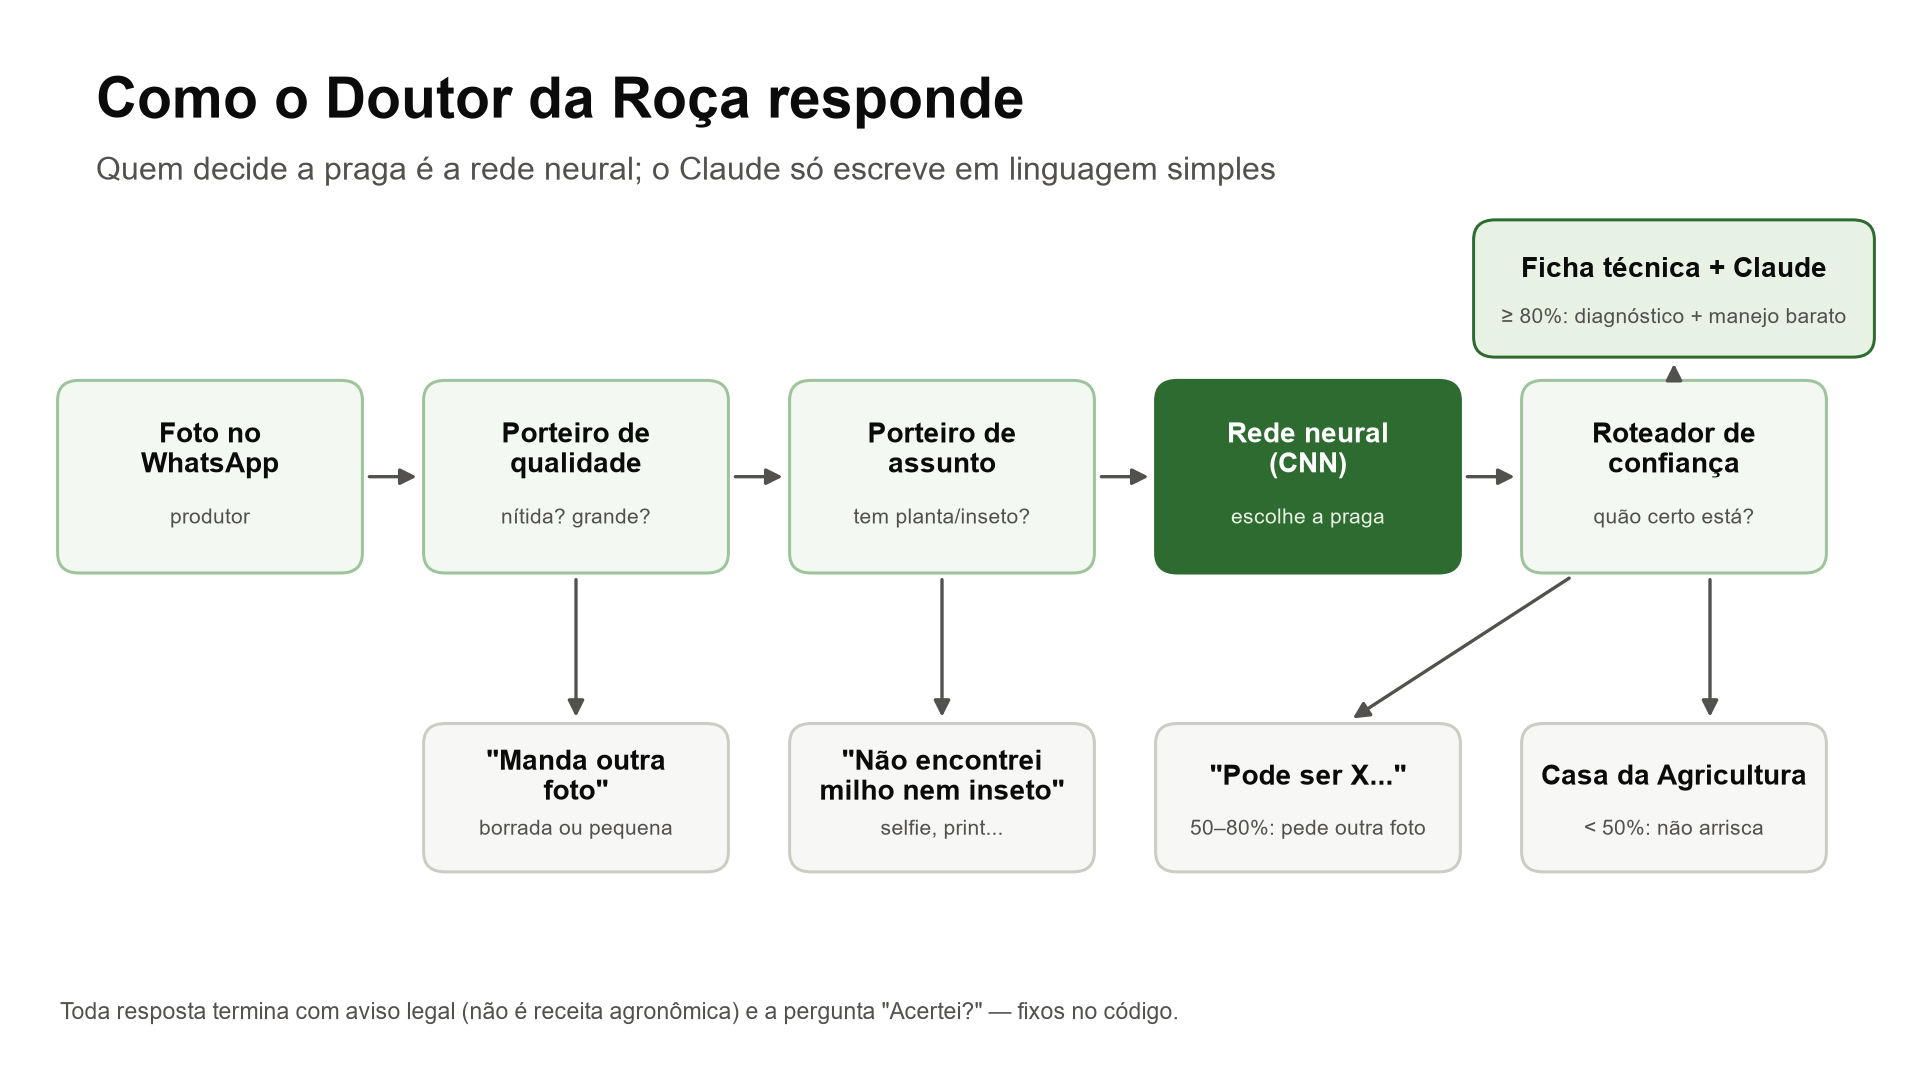
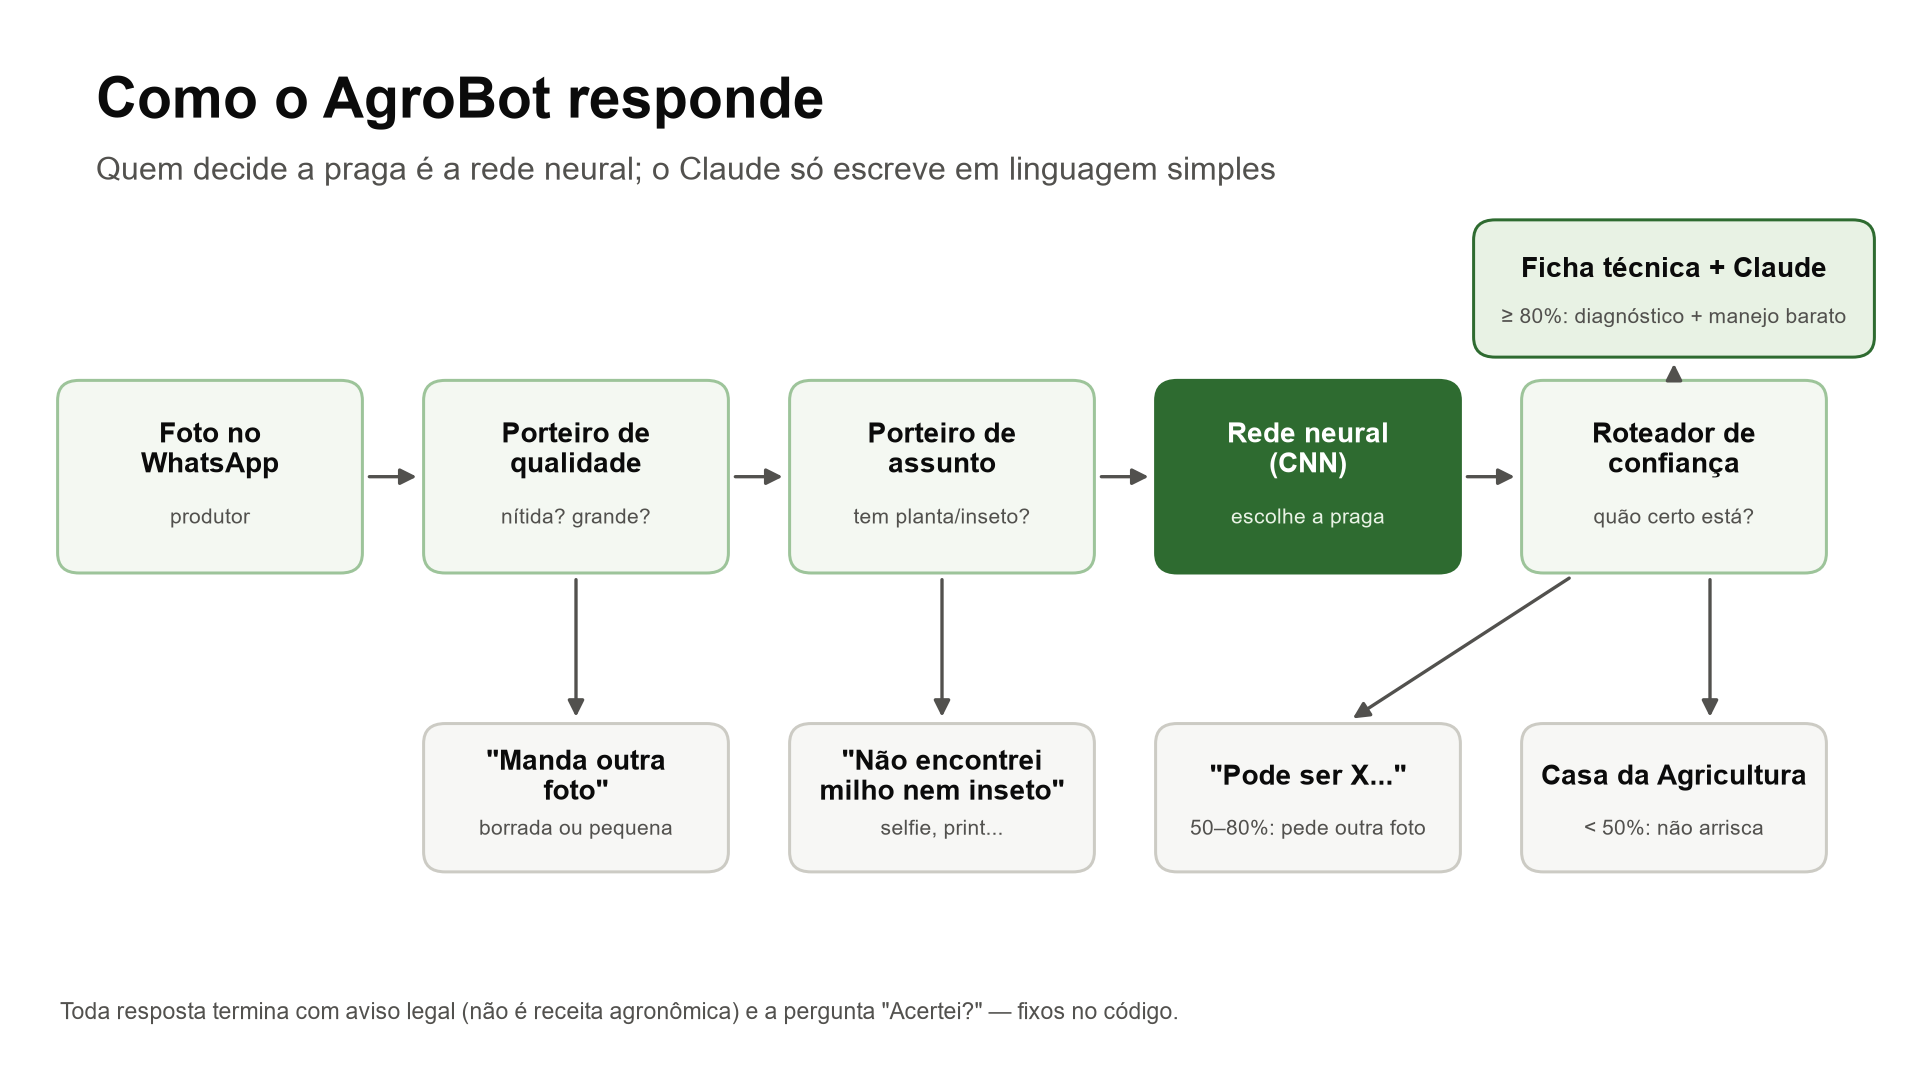
Renomeia o titulo do slide 06 para AgroBot

Changed region(s): [[0.1562, 0.0611, 0.5312, 0.1222]]

diff --git a/docs/gerar_imagens_slides.py b/docs/gerar_imagens_slides.py
@@ -235,7 +235,7 @@ salvar(fig, "05-por-que-80.png")
 
 # --- 06 fluxo do sistema ----------------------------------------------------
 fig = plt.figure(figsize=(W, H))
-titulo(fig, "Como o Doutor da Roça responde", "Quem decide a praga é a rede neural; o Claude só escreve em linguagem simples")
+titulo(fig, "Como o AgroBot responde", "Quem decide a praga é a rede neural; o Claude só escreve em linguagem simples")
 ax = fig.add_axes([0, 0, 1, 0.82])
 ax.set_xlim(0, 16)
 ax.set_ylim(0, 8)
